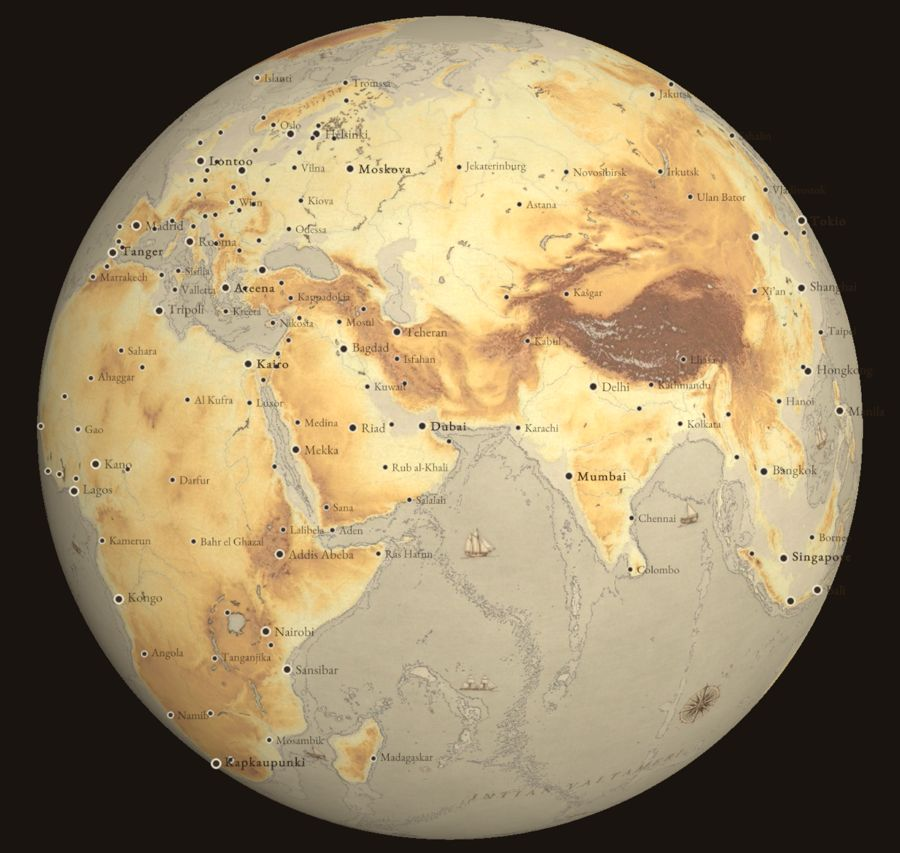
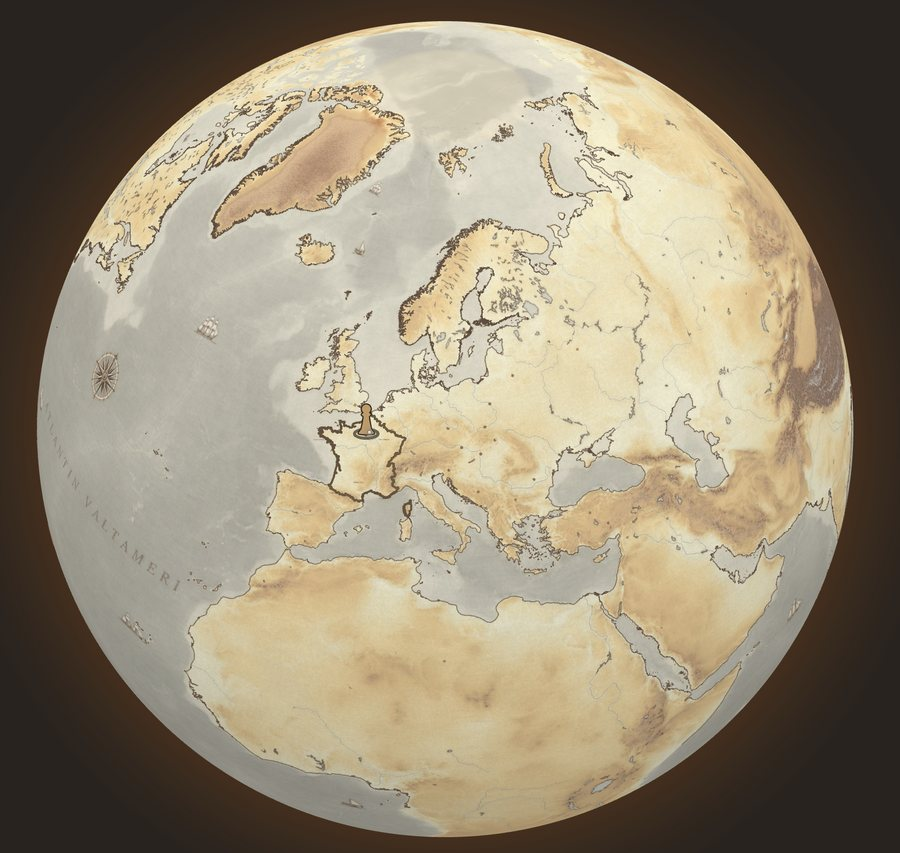
Projektisivu: Tilanteen pallokuva Eurooppa-keskeiseksi (VAIN EUROOPPA)

diff --git a/projekti/tilanne.js b/projekti/tilanne.js
@@ -12,7 +12,7 @@ import { PELITILAT, PELI_IKONIT } from './pelit.js';
 
 // Osa-alueiden kuvat (assets/projekti/, pienennetyt kuvakaappaukset pelistä).
 const KUVAT = {
-  pallo: { src: 'assets/projekti/pallokartta.jpg', w: 900, h: 853, alt: 'Pergamenttityylinen pallokartta, jolla näkyvät Euroopan, Afrikan ja Aasian kaupungit', teksti: 'Pallokartta: koko maapallo omana, pergamenttityylisenä laattakarttana.' },
+  pallo: { src: 'assets/projekti/pallokartta.jpg', w: 900, h: 853, alt: 'Pergamenttityylinen pallokartta, jonka keskellä on Eurooppa', teksti: 'Pallokartta: koko maapallo omana, pergamenttityylisenä laattakarttana — keskellä Eurooppa.' },
   kreikka: { src: 'assets/projekti/kreikka-maasto.jpg', w: 431, h: 900, alt: 'Kallistettu karttanäkymä Kreikasta: vuoret kohoavat kolmiulotteisina, kartalla Delfoi, Korintin kanava ja Epidauros', teksti: 'iOS-sovelluksen kallistettu näkymä: Kreikan vuoret kolmiulotteisina ja kohteet kartalla.' },
   lehti: { src: 'assets/projekti/kaupunkilehti-pariisi.jpg', w: 414, h: 900, alt: 'Pariisin kaupunkilehden etusivu: Eiffel-torni ja Invalidien kupoli, alla lehden teksti', teksti: 'Kaupunkilehti: Pariisin etusivu, jonka tekstin voi myös kuunnella.' },
   chartres: { src: 'assets/projekti/lehti-chartres.jpg', w: 585, h: 900, alt: 'Chartresin katedraalia käsittelevä juttu kahdessa palstassa ja ilmakuva kaupungista', teksti: 'Nähtävyysjuttu kahdessa palstassa: Chartresin katedraali, kuva ja lähteet.' },
